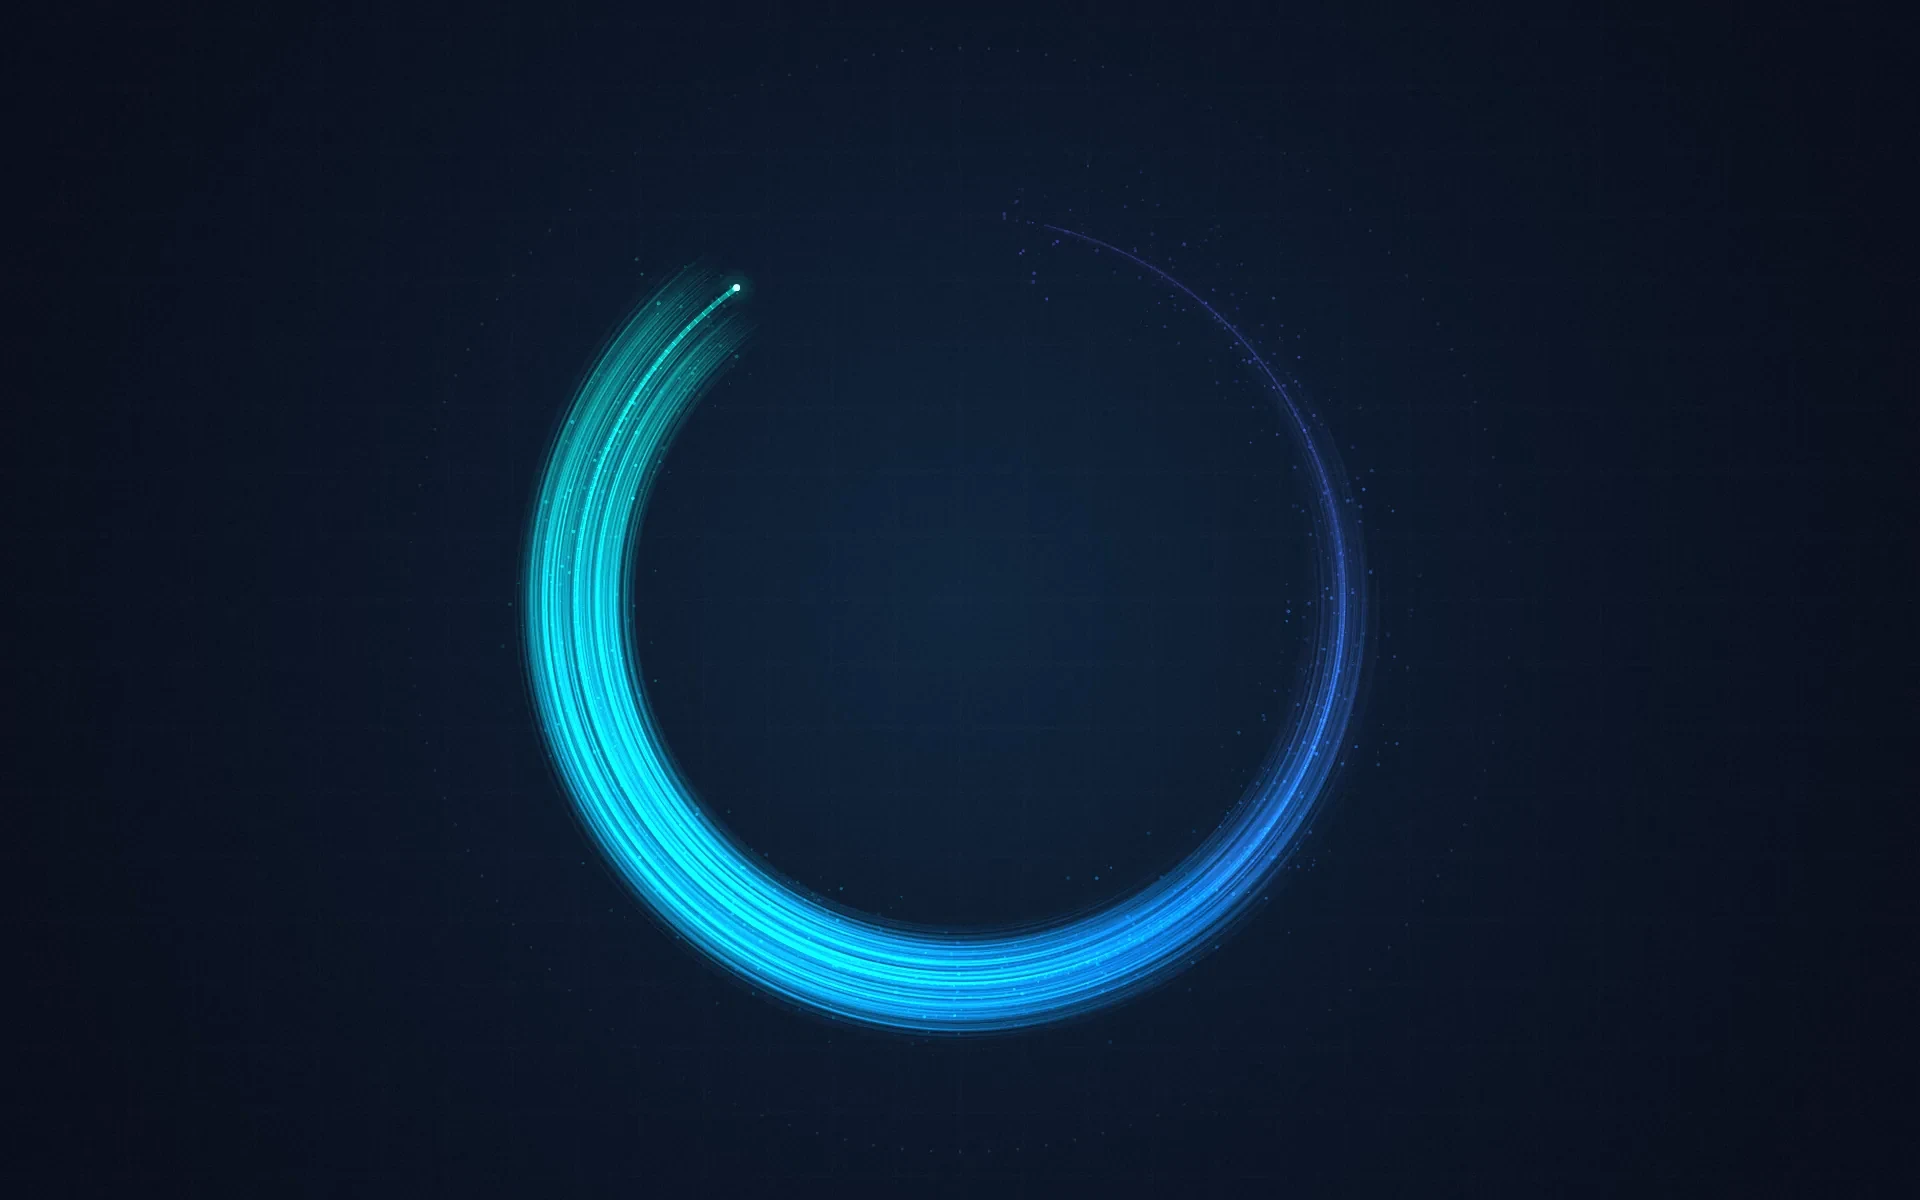
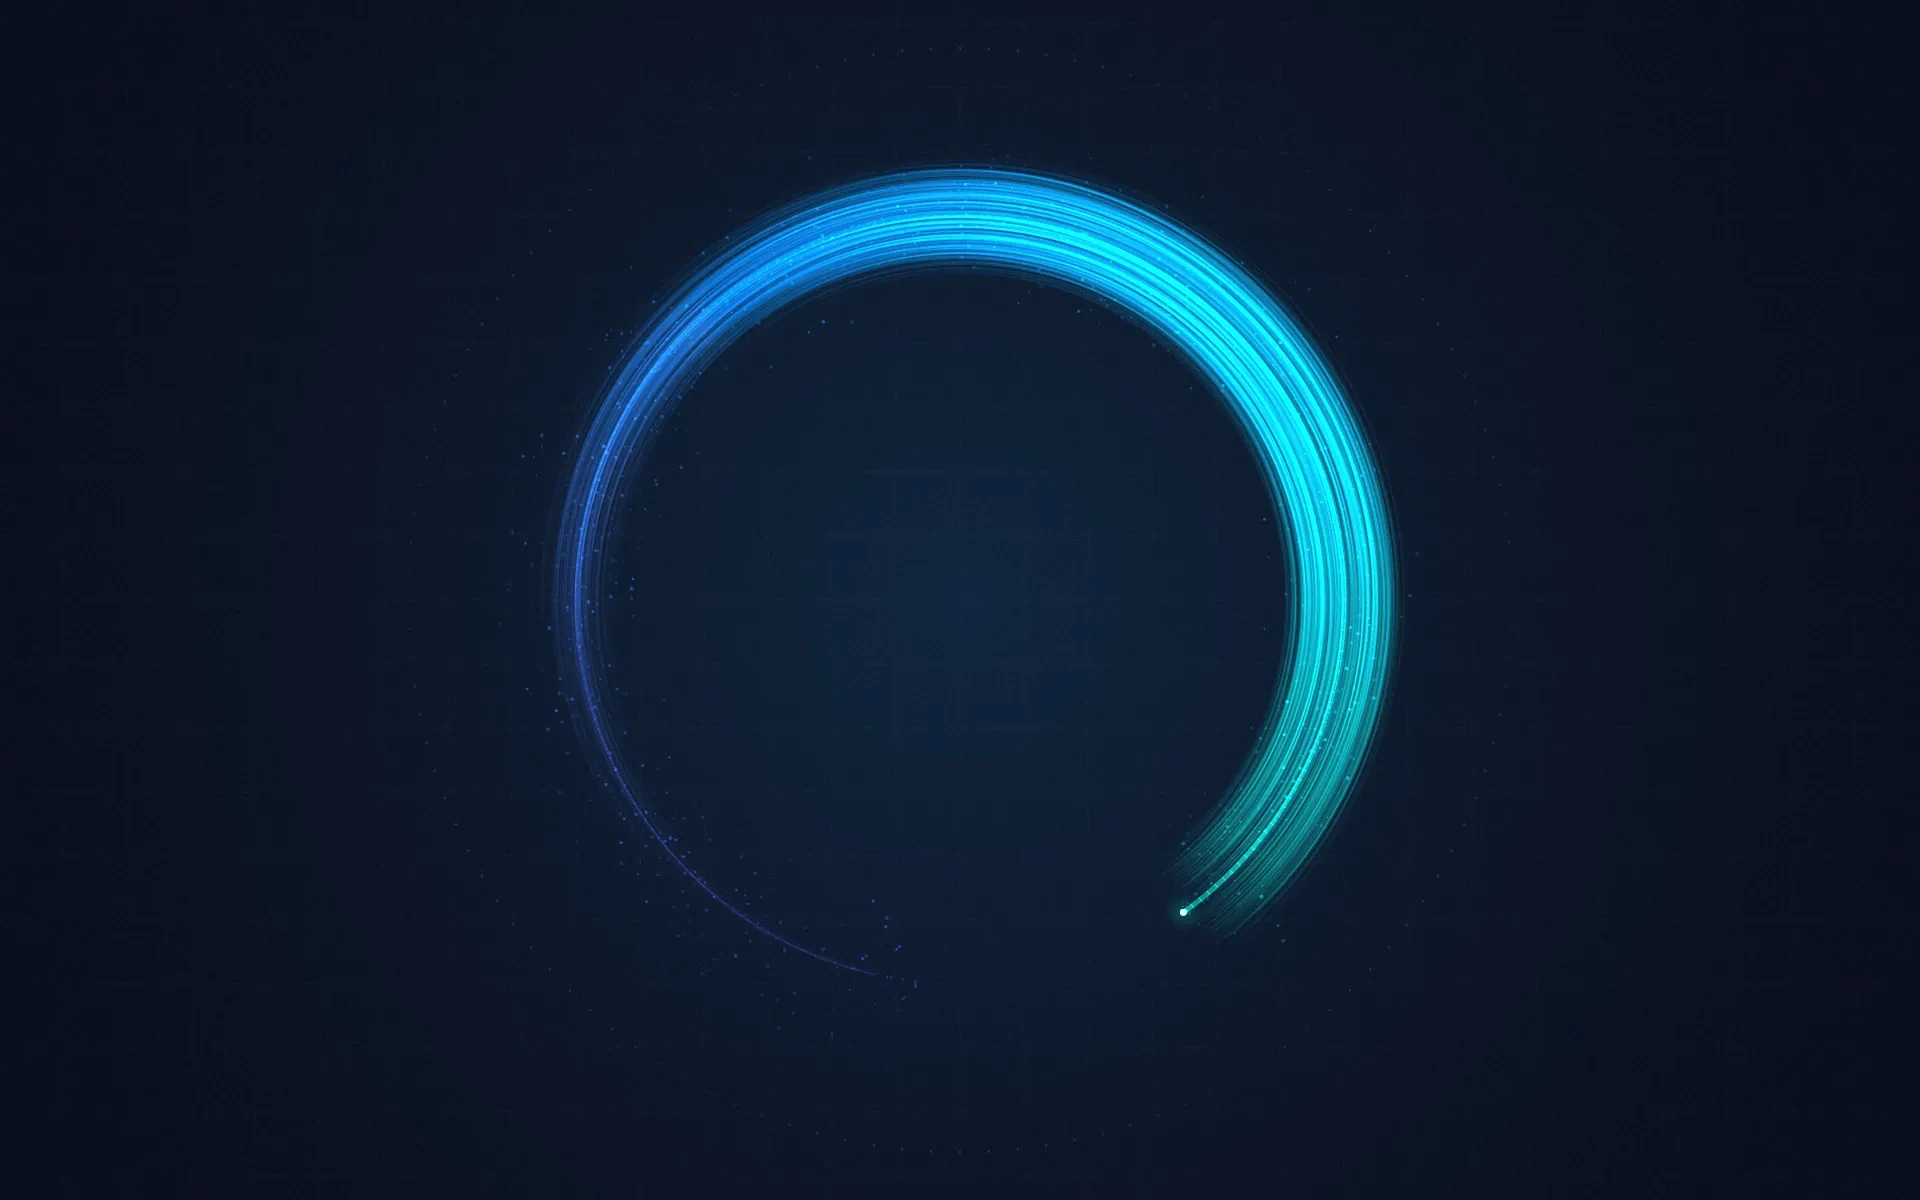
Flip the group hero Enso vertically instead of horizontally
Claude-Session: https://claude.ai/code/session_01LQ4wHwsSD461jU5JaRTfKp

Changed region(s): [[0.25, 0.1233, 0.75, 0.8633]]

diff --git a/site/README.md b/site/README.md
@@ -67,7 +67,7 @@ The images are original brand artwork drawn in code, so there are no stock or th
 NODE_PATH=$(npm root -g) node site/art/render.mjs   # needs Playwright with Chromium
 ```
 
-Change a scene's seed or parameters in `render.mjs` to get a different composition. The group hero uses `enso-hero.webp` (and `-sm`), a horizontal mirror of `enso-light.webp` made with Pillow; re-make it if the Enso scene changes.
+Change a scene's seed or parameters in `render.mjs` to get a different composition. The group hero uses `enso-hero.webp` (and `-sm`), a vertical mirror of `enso-light.webp` made with Pillow; re-make it if the Enso scene changes.
 
 ## Pages
 
